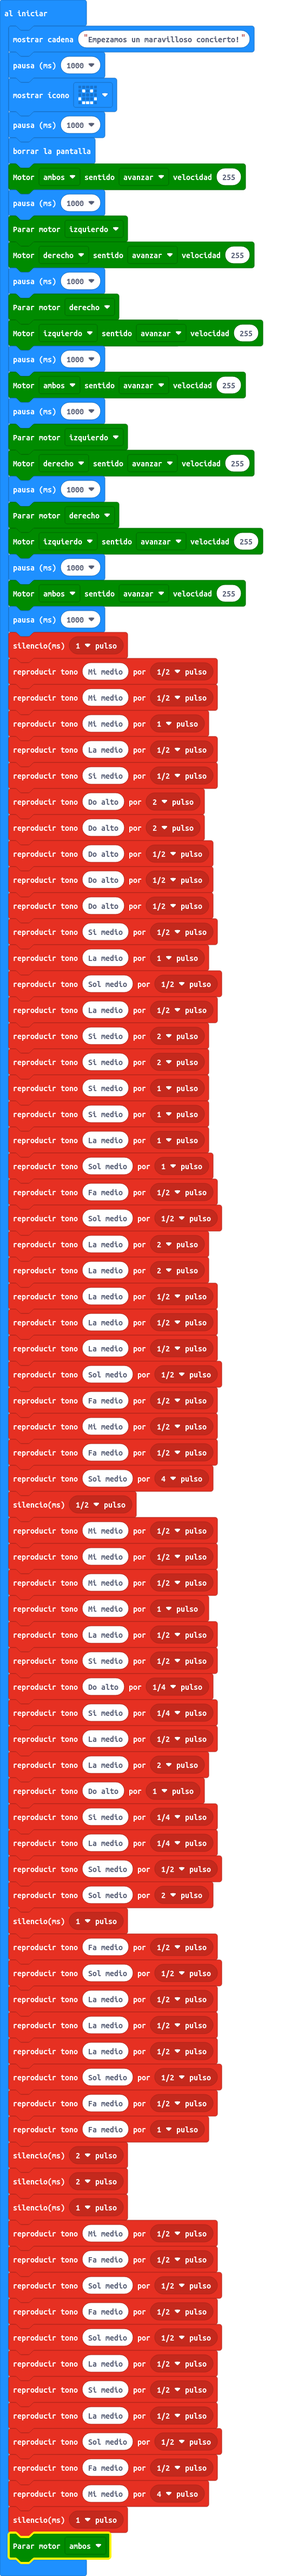
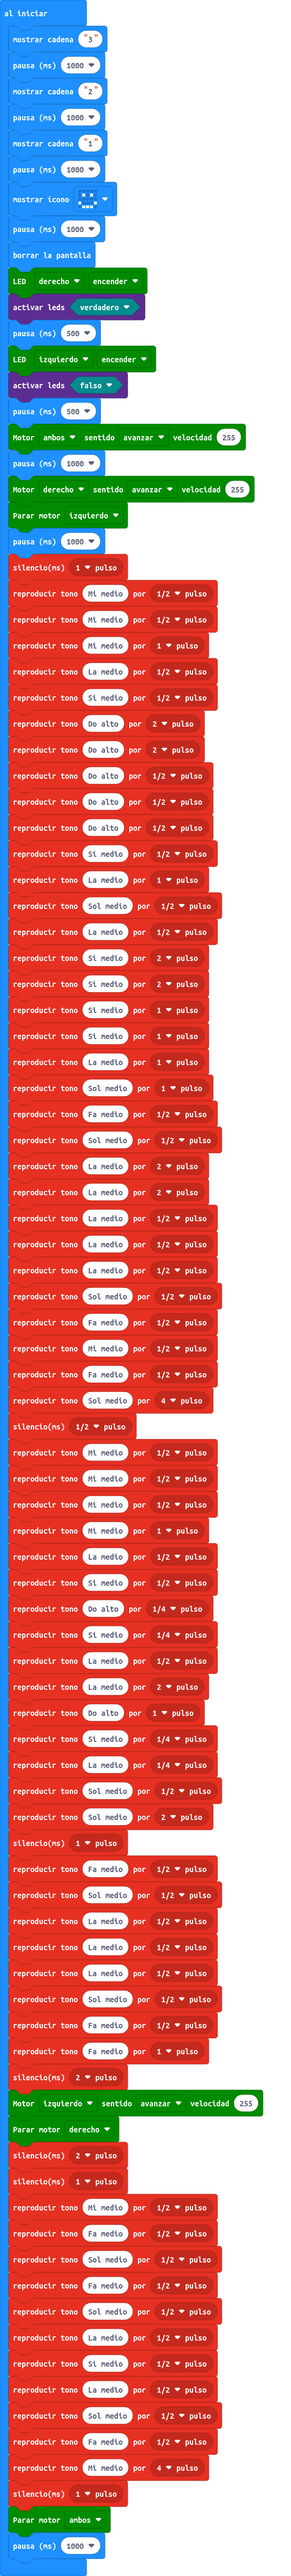
Actualizar main.blocks, main.ts

Changed region(s): [[0.0297, 0.0, 0.9219, 0.9971], [0.5056, 0.4362, 0.5948, 0.4985], [0.2974, 0.6232, 0.3271, 0.6543]]

diff --git a/main.ts b/main.ts
@@ -1,25 +1,22 @@
-basic.showString("Empezamos un maravilloso concierto!")
+basic.showString("3")
+basic.pause(1000)
+basic.showString("2")
+basic.pause(1000)
+basic.showString("1")
 basic.pause(1000)
 basic.showIcon(IconNames.Happy)
 basic.pause(1000)
 basic.clearScreen()
+maqueen.writeLED(maqueen.LED.LEDLeft, maqueen.LEDswitch.turnOn)
+led.enable(true)
+basic.pause(500)
+maqueen.writeLED(maqueen.LED.LEDRight, maqueen.LEDswitch.turnOn)
+led.enable(false)
+basic.pause(500)
 maqueen.motorRun(maqueen.Motors.All, maqueen.Dir.CW, 255)
 basic.pause(1000)
-maqueen.motorStop(maqueen.Motors.M1)
 maqueen.motorRun(maqueen.Motors.M2, maqueen.Dir.CW, 255)
-basic.pause(1000)
-maqueen.motorStop(maqueen.Motors.M2)
-maqueen.motorRun(maqueen.Motors.M1, maqueen.Dir.CW, 255)
-basic.pause(1000)
-maqueen.motorRun(maqueen.Motors.All, maqueen.Dir.CW, 255)
-basic.pause(1000)
 maqueen.motorStop(maqueen.Motors.M1)
-maqueen.motorRun(maqueen.Motors.M2, maqueen.Dir.CW, 255)
-basic.pause(1000)
-maqueen.motorStop(maqueen.Motors.M2)
-maqueen.motorRun(maqueen.Motors.M1, maqueen.Dir.CW, 255)
-basic.pause(1000)
-maqueen.motorRun(maqueen.Motors.All, maqueen.Dir.CW, 255)
 basic.pause(1000)
 music.rest(music.beat(BeatFraction.Whole))
 music.playTone(330, music.beat(BeatFraction.Half))
@@ -80,6 +77,8 @@ music.playTone(392, music.beat(BeatFraction.Half))
 music.playTone(349, music.beat(BeatFraction.Half))
 music.playTone(349, music.beat(BeatFraction.Whole))
 music.rest(music.beat(BeatFraction.Double))
+maqueen.motorRun(maqueen.Motors.M1, maqueen.Dir.CW, 255)
+maqueen.motorStop(maqueen.Motors.M2)
 music.rest(music.beat(BeatFraction.Double))
 music.rest(music.beat(BeatFraction.Whole))
 music.playTone(330, music.beat(BeatFraction.Half))
@@ -95,3 +94,4 @@ music.playTone(349, music.beat(BeatFraction.Half))
 music.playTone(330, music.beat(BeatFraction.Breve))
 music.rest(music.beat(BeatFraction.Whole))
 maqueen.motorStop(maqueen.Motors.All)
+basic.pause(1000)
